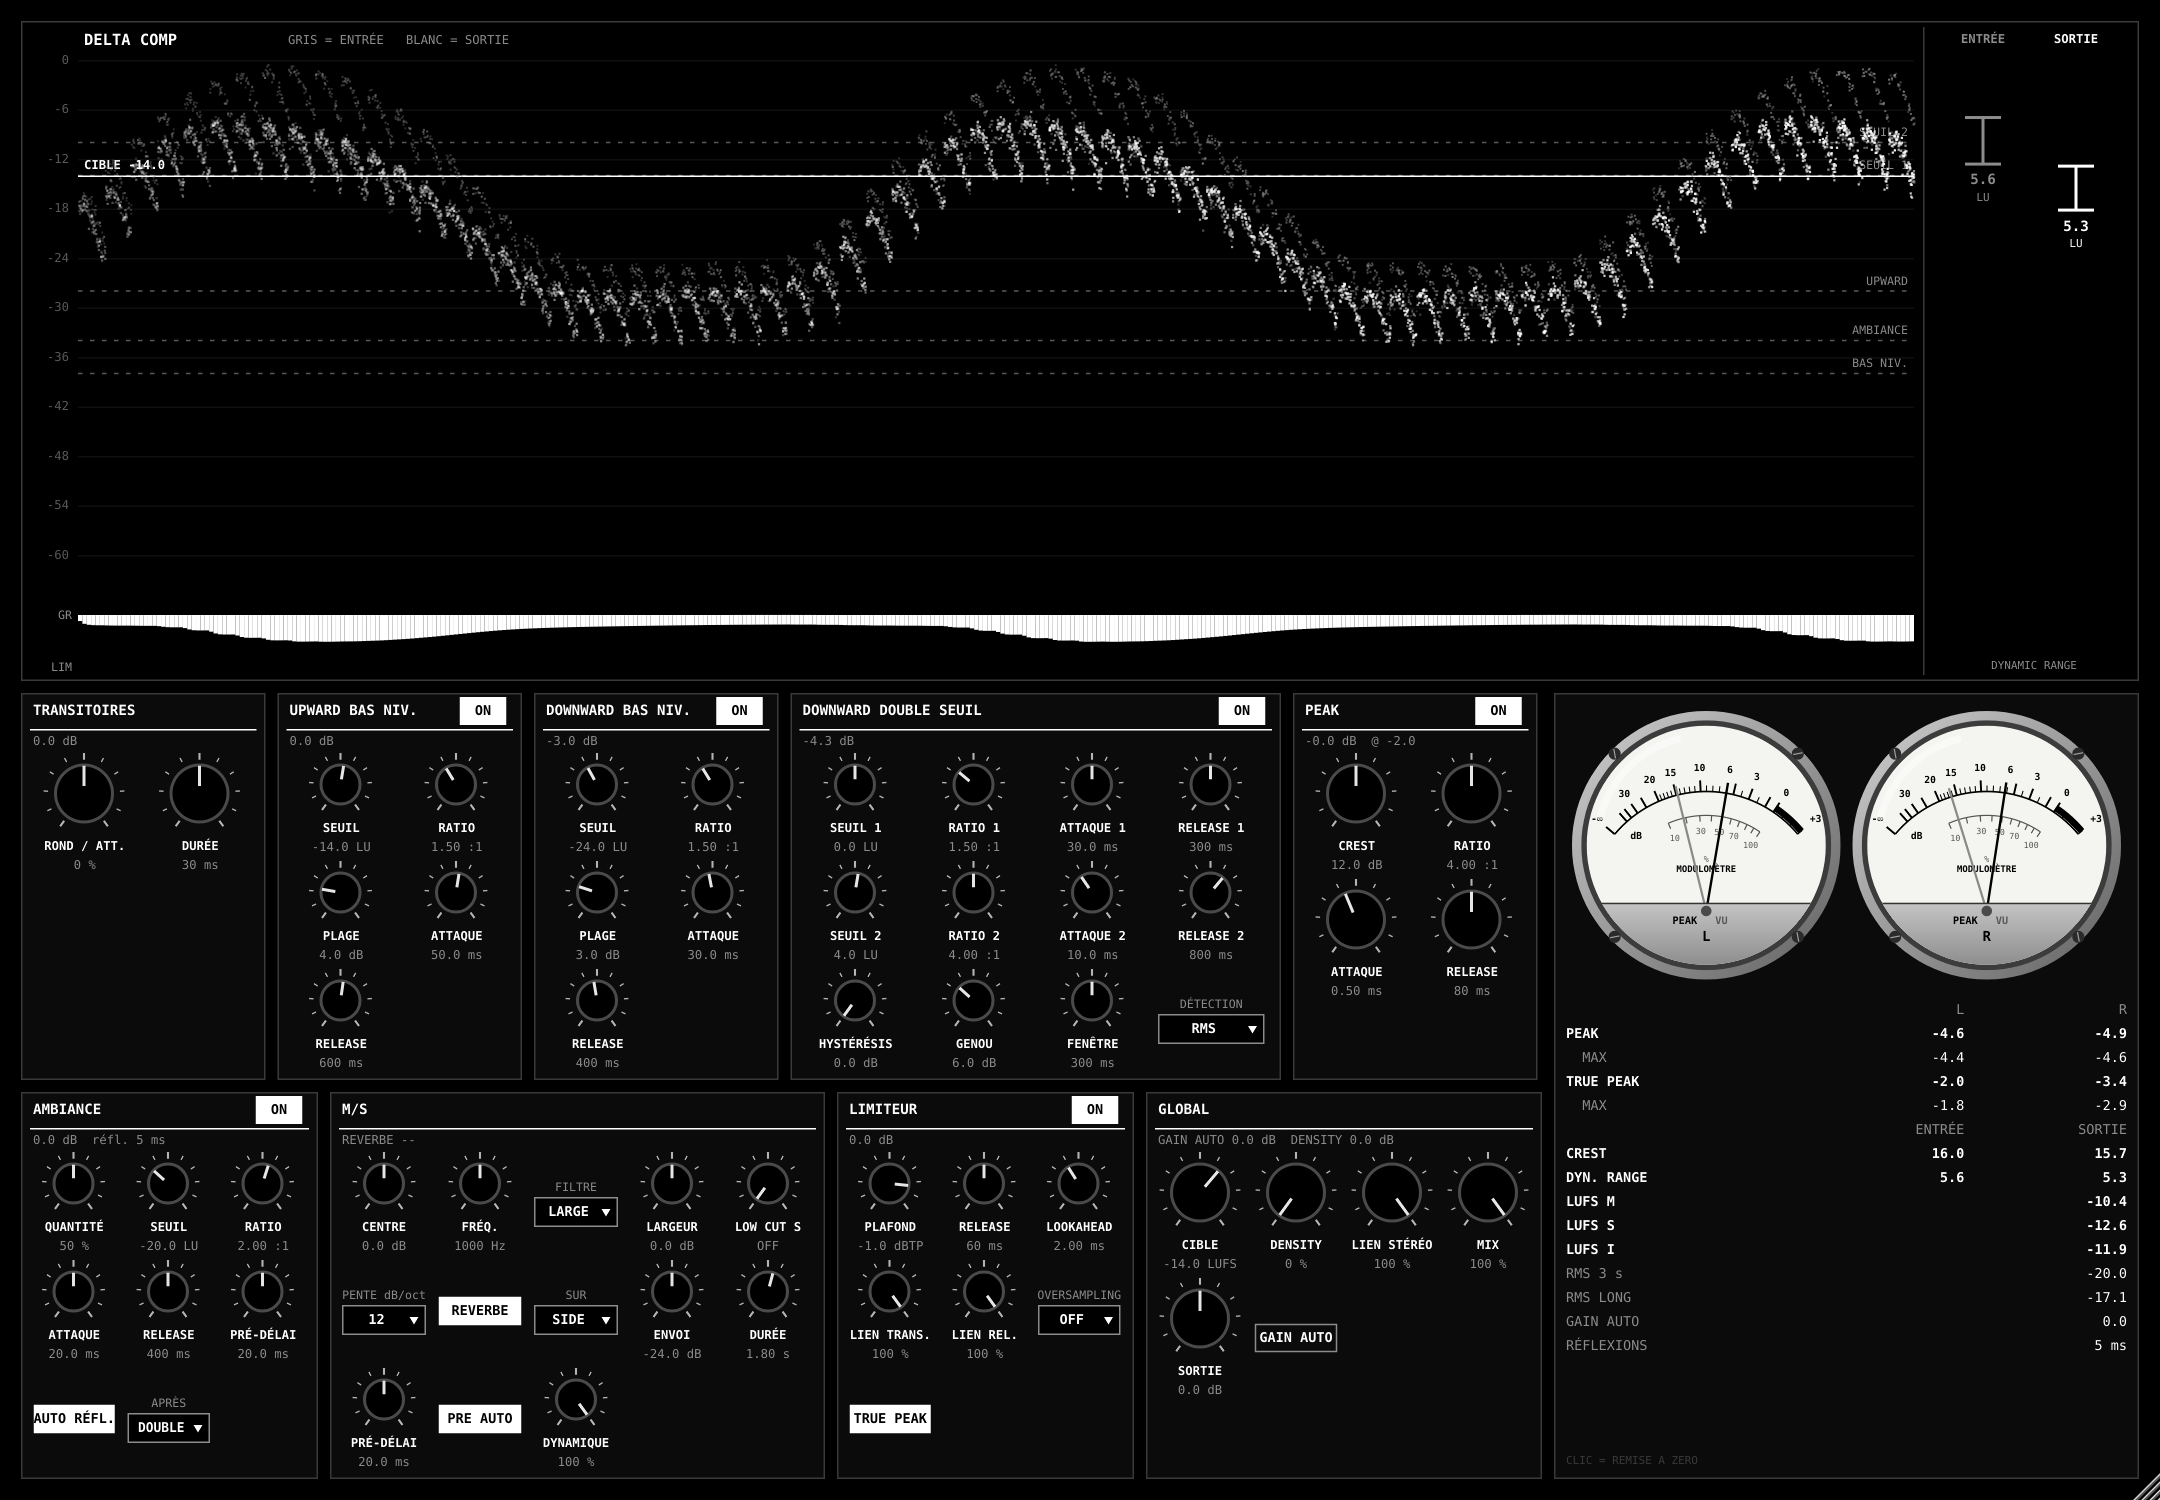
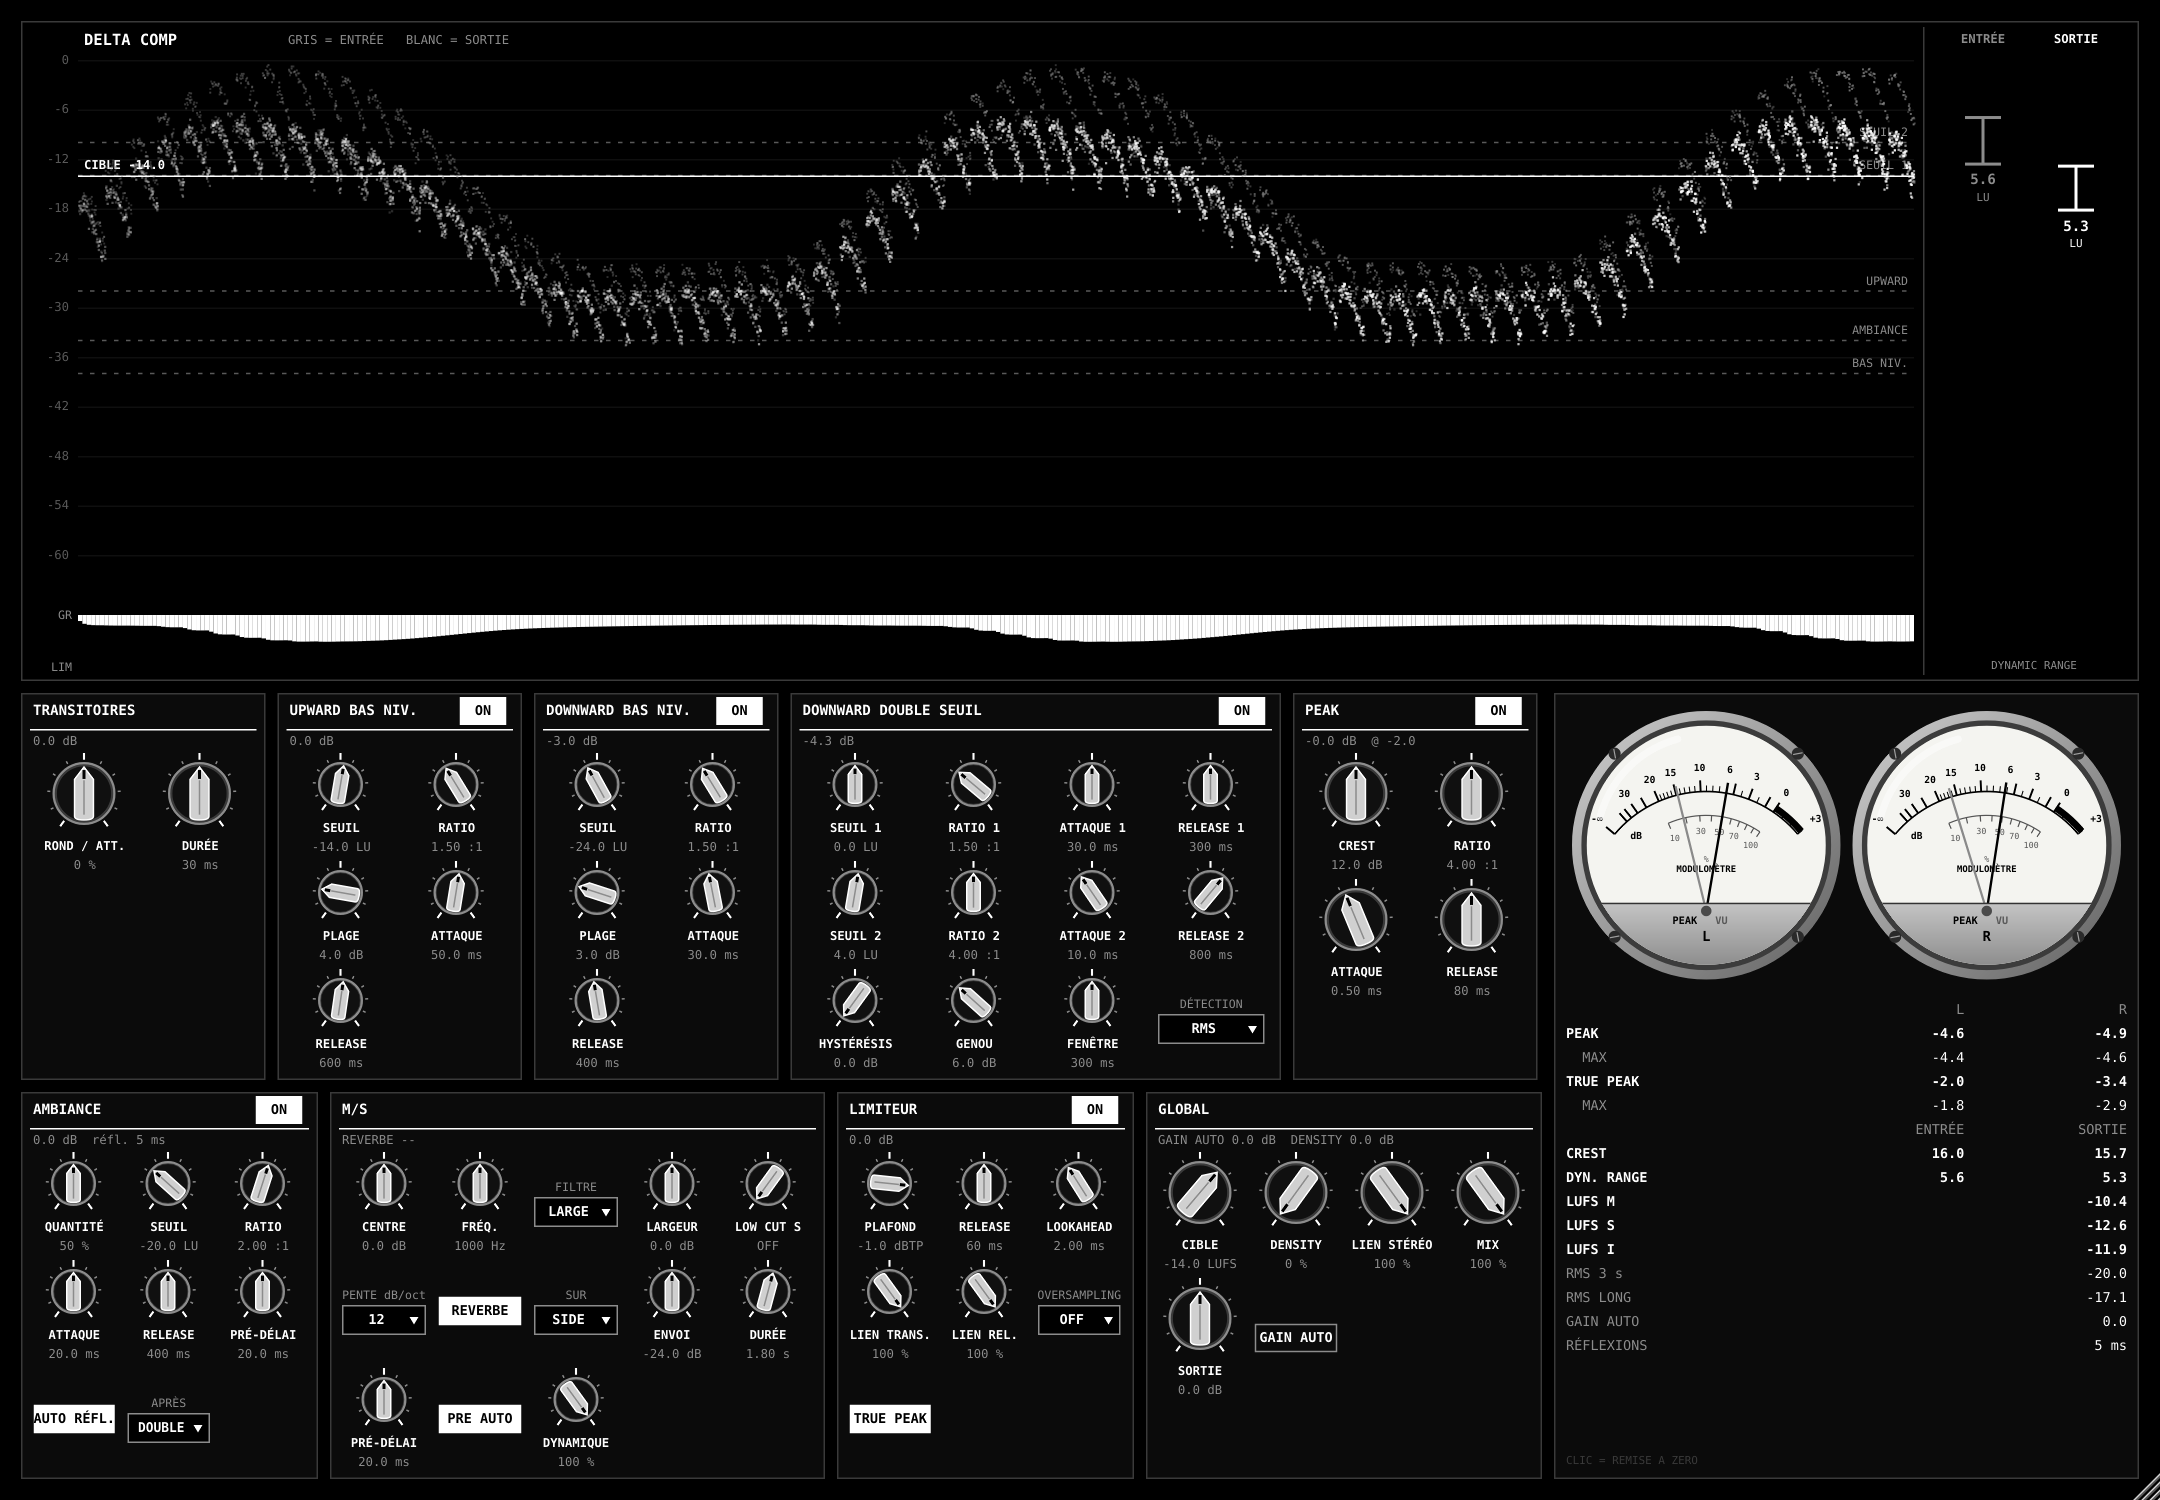
Delta Comp: Nagra style rotary knobs
Claude-Session: https://claude.ai/code/session_01VZMc8cQ1mYVxDrpTU41vBi

diff --git a/delta-comp/Source/PluginEditor.cpp b/delta-comp/Source/PluginEditor.cpp
@@ -24,25 +24,42 @@ Look::Look()
     setColour (PopupMenu::highlightedTextColourId, kBg);
 }
 
-// Moog style: white tick ring, black knob with a grey rim, white pointer line.
+// Nagra style: flat bar knob with a pointed tip, sunk in a round cup, graduations engraved around it.
 void Look::drawRotarySlider (Graphics& g, int x, int y, int w, int h, float pos, float a0, float a1, Slider& s)
 {
     const auto r = Rectangle<float> ((float) x, (float) y, (float) w, (float) h);
-    const float rad = jmin (r.getWidth(), r.getHeight()) * 0.5f - 2.0f;
+    const float Rt = jmin (r.getWidth(), r.getHeight()) * 0.5f - 2.0f;
     const auto c = r.getCentre();
-    g.setColour (kFg.withAlpha (0.7f));
+    const float R = Rt - 6.0f;
+    // engraved graduations
     for (int i = 0; i <= 10; ++i)
     {
         const float a = a0 + (a1 - a0) * (float) i / 10.0f;
-        const float r0 = rad - (i % 5 == 0 ? 4.5f : 3.0f);
-        g.drawLine ({ c.getPointOnCircumference (r0, a), c.getPointOnCircumference (rad, a) }, i % 5 == 0 ? 1.4f : 0.9f);
+        const bool major = i % 5 == 0;
+        g.setColour (major ? kFg : kGrey);
+        g.drawLine ({ c.getPointOnCircumference (R + 1.5f, a), c.getPointOnCircumference (major ? Rt : Rt - 2.5f, a) }, major ? 1.4f : 1.0f);
     }
-    const float kr = rad - 7.0f;
-    g.setColour (Colour (0xff4a4a4a)); g.fillEllipse (c.x - kr, c.y - kr, 2 * kr, 2 * kr);
-    g.setColour (kBg); g.fillEllipse (c.x - kr + 2, c.y - kr + 2, 2 * kr - 4, 2 * kr - 4);
-    const float a = a0 + pos * (a1 - a0);
-    g.setColour (s.isMouseOverOrDragging() ? kFg : kFg.withAlpha (0.9f));
-    g.drawLine ({ c.getPointOnCircumference (kr * 0.25f, a), c.getPointOnCircumference (kr - 1.5f, a) }, 2.0f);
+    // cup: bevelled rim, dark well
+    g.setColour (kGrey); g.fillEllipse (c.x - R, c.y - R, 2 * R, 2 * R);
+    g.setColour (kDim);  g.fillEllipse (c.x - R + 1.5f, c.y - R + 1.5f, 2 * R - 3, 2 * R - 3);
+    g.setColour (Colour (0xff101010)); g.fillEllipse (c.x - R * 0.86f, c.y - R * 0.86f, R * 1.72f, R * 1.72f);
+    // bar knob across the cup, pointed at the value
+    const float a = a0 + pos * (a1 - a0), L = R * 0.84f, Wd = R * 0.30f;
+    Path bar;
+    bar.startNewSubPath (0, -L);
+    bar.lineTo (Wd, -L + Wd * 1.3f);
+    bar.lineTo (Wd, L - Wd * 0.4f);
+    bar.quadraticTo (Wd, L, 0, L);
+    bar.quadraticTo (-Wd, L, -Wd, L - Wd * 0.4f);
+    bar.lineTo (-Wd, -L + Wd * 1.3f);
+    bar.closeSubPath();
+    bar.applyTransform (AffineTransform::rotation (a).translated (c));
+    g.setColour (s.isMouseOverOrDragging() ? Colour (0xffeeeeee) : Colour (0xffd0d0d0)); g.fillPath (bar);
+    g.setColour (kFg); g.strokePath (bar, PathStrokeType (1.0f));
+    g.setColour (kGrey);
+    g.drawLine (c.x - std::sin (a) * L * 0.8f, c.y + std::cos (a) * L * 0.8f, c.x + std::sin (a) * L * 0.5f, c.y - std::cos (a) * L * 0.5f, 1.0f);
+    g.setColour (kBg);
+    g.drawLine (c.x + std::sin (a) * L * 0.55f, c.y - std::cos (a) * L * 0.55f, c.x + std::sin (a) * (L - 2), c.y - std::cos (a) * (L - 2), 2.0f);
 }
 
 void Look::drawButtonBackground (Graphics& g, Button& b, const Colour&, bool over, bool)
